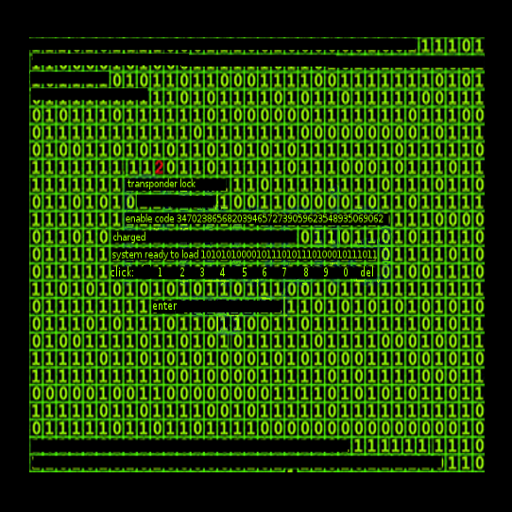
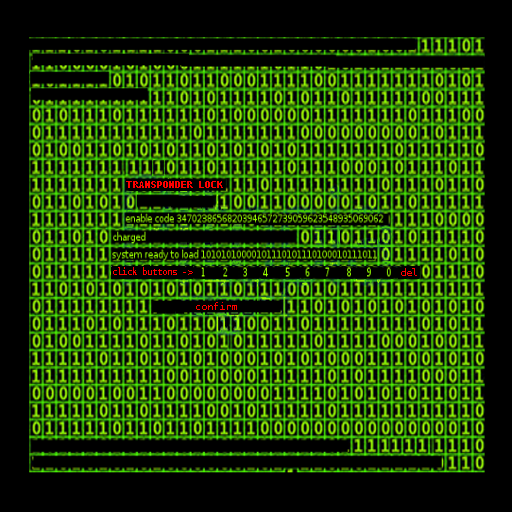
Almost done with first level

diff --git a/build/js/lib/controls/Player.js b/build/js/lib/controls/Player.js
@@ -2,7 +2,7 @@ var INV_SIZE = 3; // maximum number of objects in inventory
 var inventory; // array that stores references to inventory items
 var inv_pos; // array has constant length -> to save how many spots have been filled
 var item_count;
-var MAX_HEALTH = 20000; if (godmode) {MAX_HEALTH = 1000000};
+var MAX_HEALTH = 30000; if (godmode) {MAX_HEALTH = 1000000};
 var activeSlot = -1;
 var selectedItem;
 var critical_health = false;

diff --git a/build/js/lib/controls/firstPerson.js b/build/js/lib/controls/firstPerson.js
@@ -667,7 +667,7 @@ function fireAction() {
         scene.add(flashLight);
         scene.fog.color.set(0xff0000);;
         flashCooldown = 1;
-        player.damage(300);
+        player.damage(MAX_HEALTH/6);
         painSound();
         flashInterval = setInterval(function() {
             flashCooldown--;

diff --git a/build/js/lib/controls/interaction.js b/build/js/lib/controls/interaction.js
@@ -327,6 +327,9 @@ function extinguish() {
     }
 }
 
+function pfortnerliste() {
+    showThoughts("Noch austragen und fertig!",5000);
+}
 
 // ***** robo lab pin pad *****
 

diff --git a/build/css/style.css b/build/css/style.css
@@ -467,7 +467,7 @@ hr {
 
 #buttonGridCH {
     position: relative;
-    left: 238px;
+    left: 294px;
     top: 374px;
 }
 
